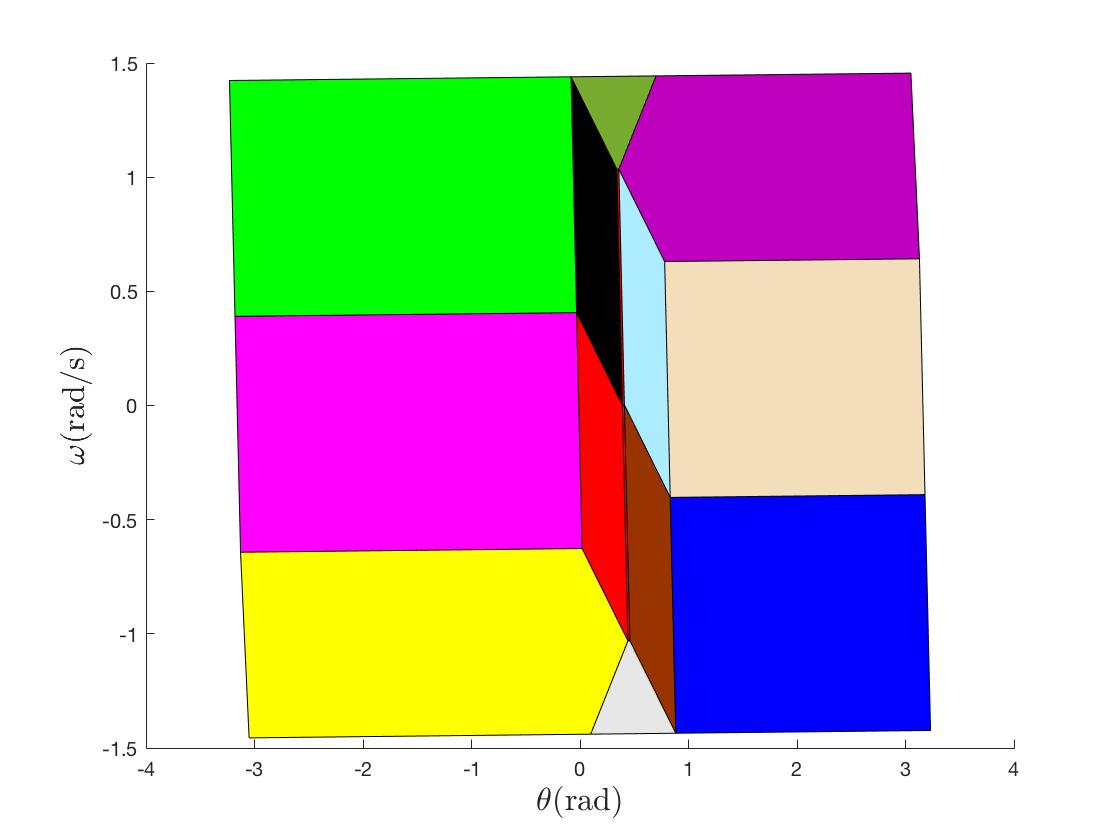
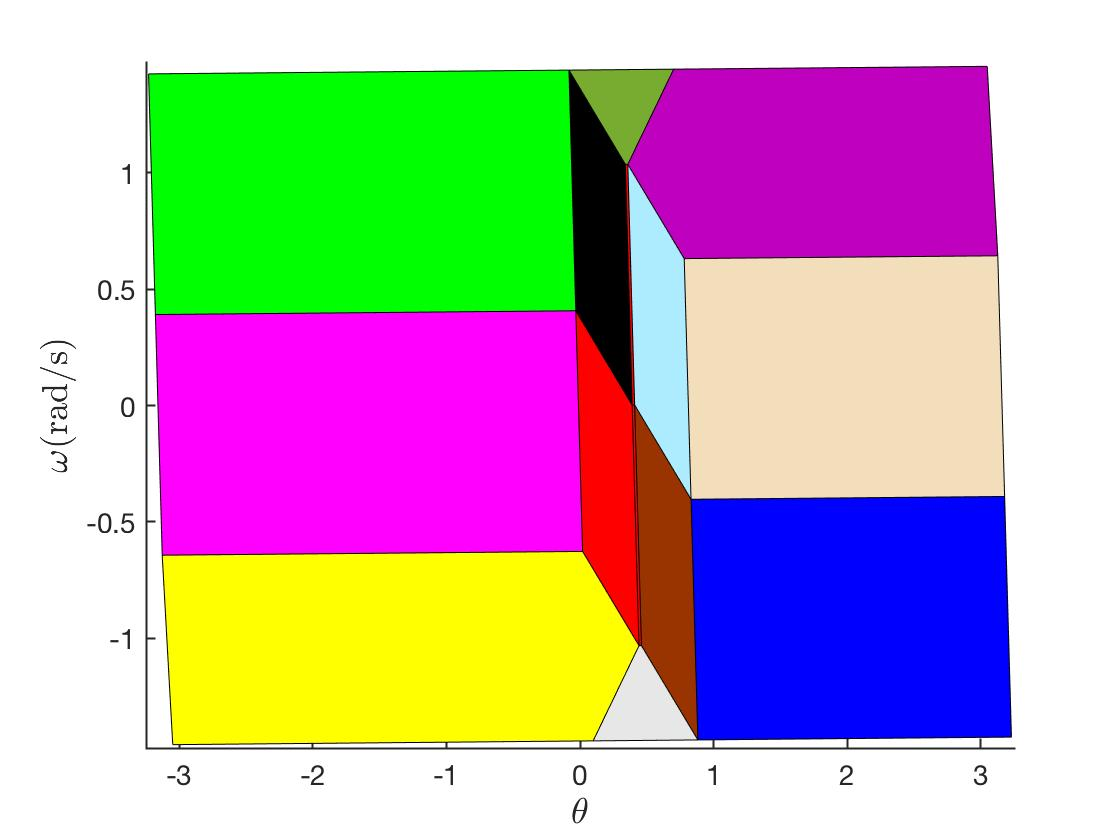
sec. 2 is updated

Changed region(s): [[0.0312, 0.0619, 0.9062, 0.9905]]

diff --git a/emsoft-2019/Motiv.tex b/emsoft-2019/Motiv.tex
@@ -11,10 +11,10 @@ These issues can be tackled using \emph{Explicit MPC} under proper assumptions o
 
 \begin{figure}[t]
 	\begin{tabular}{cc}
-	\includegraphics[width=2cm,height=4cm]{Figs/inv_pend.png}&	\includegraphics[width=6cm,height=4cm]{Figs/regs.jpg}\\
+	\includegraphics[width=2cm,height=3cm]{Figs/inv_pend.png}&	\includegraphics[width=6cm,height=4cm]{Figs/regs.jpg}\\
 	(a)&(b)
 	\end{tabular}
-	\caption{(a) Inverted pendulum; (b) 2-D plot of polyhedral partitions for an explicit MPC applied to the inverted pendulum.\Sadegh{Scale the figures better to resemble the actual image, it is now squeezed horizontally.}}
+	\caption{(a) Inverted pendulum; (b) 2-D plot of polyhedral partitions for an explicit MPC applied to the inverted pendulum.}
 	\label{fig:inverted_pendulum}
 \end{figure}
 
@@ -59,11 +59,16 @@ A model of the system can be constructed using physical principles. After linear
 	 %Setting the number of bits for storing different variables, one can compute the upper bound for approximation error, $\bar\omega$.
 	%However, we would like to achieve the minimum number of bits to reduce memory requirements.
 	
-	In summary, we design a robust explicit MPC, taking fixed-point arithmetic errors into account and find a minimal set of mixed precision assignments for all the quantities that must be stored on the embedded system. Denote the total number of bits required for implementation of RMPC by $N_b$. Given the maximum memory budget denoted by $\bar N_b$, the overall goal will be to design a robust MPC that (i) achieves the performance objectives including hard constraints and (ii) is implemented in a way that $N_b\leq \bar N_b$.
+	In summary, we design a robust explicit MPC, taking fixed-point arithmetic errors into account and find a minimal set of mixed precision assignments for all the quantities that must be stored on the embedded system. Denote the overall error produced by the fixed finite precision implementation by $e$.
+	%Denote the total number of bits required for implementation of RMPC by $N_b$. Given the maximum memory budget denoted by $\bar N_b$, the overall goal will be to design a robust MPC that (i) achieves the performance objectives including hard constraints and (ii) is implemented in a way that $N_b\leq \bar N_b$.
+   The overall goal will be to (i) design a robust MPC that achieves the performance objectives including hard constraints while the error because of the fixed-point implementation is taken into account and (ii) to minimize the total number of bits that are required for storing the computed RMPC over the embedded system while $e\leq \Delta$ is satisfied.
 	%while the error resulted by fixed-point arithmetic is smaller than the error bound $\Delta$.
 	Our approach iteratively expand the bound on disturbance $\Delta+\Delta_0$, designs a robust explicit MPC controller with this bound and uses state-of-the-art fixed-point error analyzers to find the minimum total number of bits for storing the controller into the embedded system with maximum error $\Delta_0$.\\
 	
-	Figure \ref{fig:overview} gives a high-level overview of our proposed setup. We start with defining the memory budget $\bar N_b$ and an initial bound $\Delta_0$. For the inverted pendulum example, we choose $\bar N_b=6000$ and $\Delta_0=0$. To design robust explicit MPC, MATLAB is run and the output controller is computed. Next, we ask Daisy to provide us with a mixed-precision scheme respecting the error bound $\Delta$. However, $\Delta_0=0$ is not realizable as error resulted from fixed-point implementation is always greater than zero. Therefore, we go ahead and increase $\Delta$ by \Sadegh{$0.05$}. \Sadegh{Is there a way to justify this choice?} Solving the robust explicit MPC problem for the new disturbance bound gives the new controller. Next, we ask Daisy to provide us with fixed-point precision for all the parameters such that the new bound is respected. The mixed-precision scheme given by Daisy results in total number of bits $N_b=6084$ and since $N_b>\bar N_b$, we increase $\Delta$ again. Increasing $\Delta$ by $0.1$, Daisy provides us with a mixed-precision scheme with $N_b=5900$ for the corresponding robust explicit MPC. As $N_b<\bar N_b$ the algorithm stops. The mixed precision implementation takes $11\%$ less memory compare to the smallest uniform precision that respects $\Delta$. 
+	Figure \ref{fig:overview} gives a high-level overview of our proposed setup. 
+	%We start with defining the memory budget $\bar N_b$ and an initial bound $\Delta_0$. For the inverted pendulum example, we choose $\bar N_b=6000$ and $\Delta_0=0$. 
+	We start with defining an initial bound $\Delta_0$. For the inverted pendulum example, we choose $\Delta_0=0$. To design robust explicit MPC, MATLAB is run and the output of the controller is computed. Next, we ask Daisy to provide us with a mixed-precision scheme respecting the error bound $\Delta$. However, $\Delta_0=0$ is not realizable as error resulted from fixed-point implementation is always greater than zero. Therefore, we go ahead and increase $\Delta$ by $0.05$. Solving the robust explicit MPC problem for the new disturbance bound gives the new controller. Next, we ask Daisy to provide us with fixed-point precision for all the parameters such that the new bound is respected. The mixed-precision scheme given by Daisy results in total number of bits $6084$ for the corresponding robust explicit MPC. The mixed precision implementation takes about $10\%$ less memory compare to the smallest uniform precision that respects $\Delta$. 
+	%The mixed-precision scheme given by Daisy results in total number of bits $N_b=6084$ and since $N_b>\bar N_b$, we increase $\Delta$ again. Increasing $\Delta$ by $0.1$, Daisy provides us with a mixed-precision scheme with $N_b=5900$ for the corresponding robust explicit MPC. As $N_b<\bar N_b$ the algorithm stops. The mixed precision implementation takes $11\%$ less memory compare to the smallest uniform precision that respects $\Delta$. 
 %	Using the output of Daisy, we are able to reduce memory requirements for the embedded systems up-to $20\%$ comparing to the case that uniform fixed-point precision is used.
 	
 	
@@ -77,30 +82,22 @@ A model of the system can be constructed using physical principles. After linear
 	\begin{figure*}[t]
 		\begin{tikzpicture}[auto, node distance=2cm,>=latex',scale=1]
 			\centering
-			\node [block,scale=.8, pin={[pinstyle]above:$\Delta=\Delta_0$},
-			node distance=5cm] (RMPC) {RMPC design (MATLAB)};
-			\node[] (partitions) at (2.5,.5){\includegraphics[width=.08\textwidth]{Figs/regs.jpg}};
-			\node [block, scale=1,right of=RMPC,
-			node distance=5cm,text width=3cm] (mixed) {Mixed precision computation (Daisy)};
+			\node [block,scale=1,,text width=3.5cm, pin={[pinstyle]above:$\Delta=\Delta_0$},
+			node distance=1cm] (RMPC) {Robust explicit MPC design (computed by MATLAB)};
+			%\node[] (partitions) at (2.5,.5){\includegraphics[width=.08\textwidth]{Figs/regs.jpg}};
+			\node [block, scale=1,right=2.5cm of RMPC,
+			node distance=5cm,text width=4cm] (mixed) {Finite precision implementation (computed by Daisy)};
 			\node [draw, diamond, 
-			minimum height=3em, minimum width=3em, right of=mixed,
-			node distance=5cm] (decide) {$N_b\leq \bar N_b$};
+			minimum height=3em, minimum width=3em, right =1cm of mixed,
+			node distance=5cm] (decide) {$e\leq \bar \Delta$};
 			\node [block, right of=decide,
 			node distance=3cm] (done) {Done};
 			\node [block, below of= decide,
 			node distance=3cm] (delta) {increase $\Delta$};
-			\node [scale=.3] at (2.25,-.5)  {
-				$
-				K(x_k)=
-				\begin{cases}
-				F_1x_k+G_1 & \text{if $x_k\in \mathcal{R}_1$}\\
-				F_2x_k+G_2 & \text{if $x_k\in \mathcal{R}_2$}\\
-				\vdots\\
-				F_Px_k+G_P & \text{if $x_k\in \mathcal{R}_P$}
-				\end{cases} 
-				$
+			\node [scale=1] at (3,-.25)  {
+				$u(x)=Kx+v$
 			};
-		\node at (7.5,-.35) {$N_b$};
+		\node at (9,-.25) {$e$};
 			
 			
 			\draw [draw,->] (RMPC) -- node [pos=-.1] {}(mixed);
